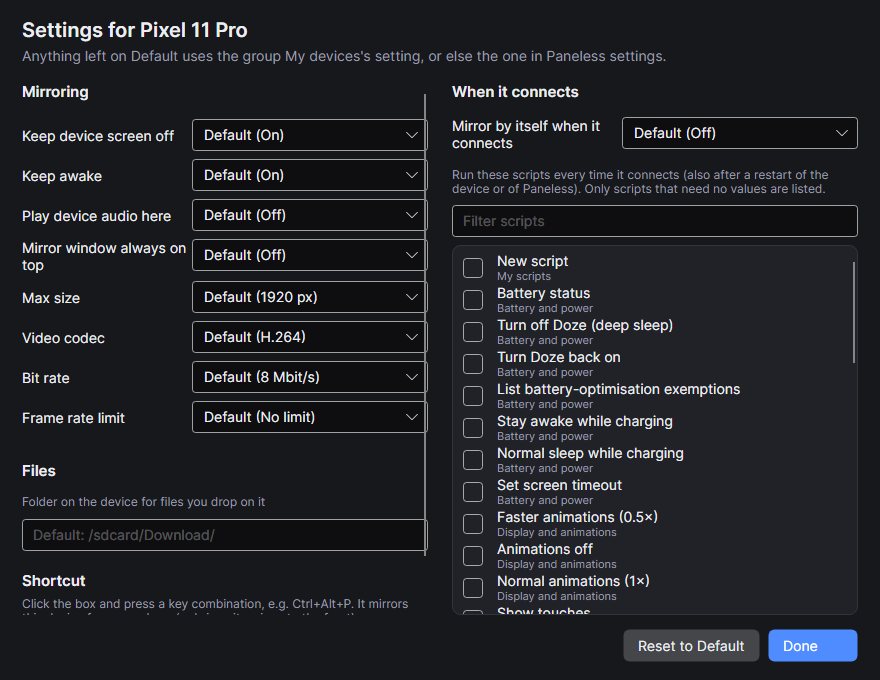
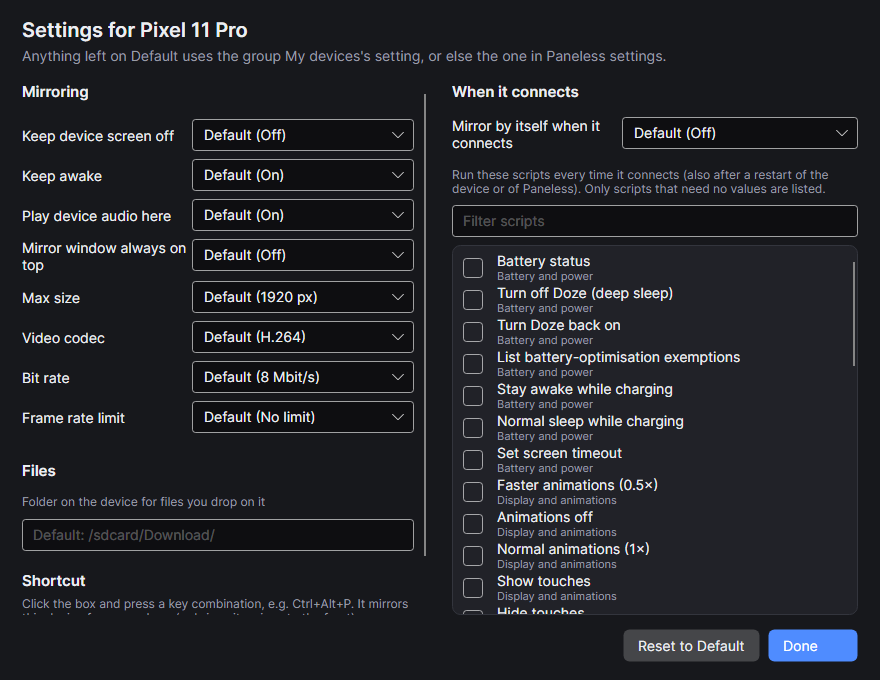
Docs and screenshots for 1.0.0-beta.2 release
Updates README and CHANGELOG for light/dark mode and beta.2 fixes, and refreshes Settings and Device Settings screenshots.

diff --git a/README.md b/README.md
@@ -128,6 +128,7 @@ The interface is built with [Avalonia](https://avaloniaui.net/), a cross-platfor
 - A global shortcut per device (e.g. Ctrl+Alt+P).
 - **Automatic updates** from GitHub Releases: downloaded in the background and installed when you close Paneless. Can be turned off.
 - **Share scripts:** export one or all of your scripts as a file or to the clipboard; import from a file, the clipboard or a link (e.g. a GitHub Gist). Imported scripts are shown before they're added and ask before running.
+- **Light and dark mode**, following the system theme by default and switching live in Settings.
 - **English, German and French**, following Windows' language or chosen in Settings.
 
 ## Install
@@ -175,6 +176,7 @@ From then on, the device appears whenever Wireless debugging is on and it's on t
 | Find out why an app crashes | **Logs**, then **Crashes only** |
 | Get a list of all devices for Excel | **Inventory › Read devices › Export** |
 | Share a script | **Scripts**, select it, **Share** (to add one: **Import**) |
+| Switch light / dark mode | **Settings › Appearance** (follows the system theme by default) |
 | Change the language | **Settings › Language**, then restart Paneless |
 
 <p align="center"><img src="docs/images/device-settings.png" width="640" alt="Device settings"></p>

diff --git a/CHANGELOG.md b/CHANGELOG.md
@@ -30,6 +30,7 @@ A new layout with a navigation bar on the left, automation, overview pages, AI a
 - **German and French**, following Windows' language or chosen in Settings.
 - **Light and dark mode** in Settings, following the system theme by default and switching live.
 - Starting Paneless a second time brings the open window to the front.
+- **Fixes & polish:** safe restore from the notification area (`--tray` / close to tray), reliable shortcut conflict reporting, AI `list_groups` respects hidden (`Off`) devices and `read_log` still finds logs of recently crashed apps, live group/recipe updates on the Automation page, and toolbar spacing when arranging second screens and app windows.
 
 ## 1.0.0-beta.1 (2026-11-21)
 
